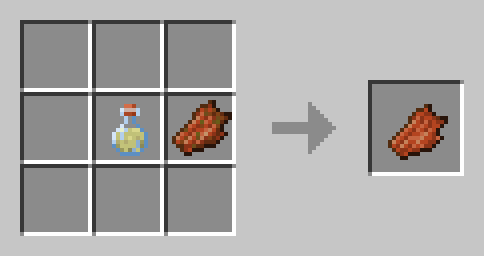
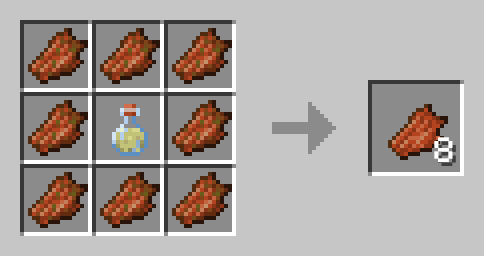
chore: update recipe & recipe card

diff --git a/src/main/java/net/sneezewipe/steelwitchesplus/datagen/ModRecipeProvider.java b/src/main/java/net/sneezewipe/steelwitchesplus/datagen/ModRecipeProvider.java
@@ -248,8 +248,8 @@ public class ModRecipeProvider extends FabricRecipeProvider {
             }
 
             private void generateRecipeCleanedFlesh(RecipeExporter exporter) {
-                createShapeless(RecipeCategory.MISC, ModItems.CLEANED_FLESH, 1)
-                        .input(Items.ROTTEN_FLESH).input(ModItems.DISINFECTANT)
+                createShapeless(RecipeCategory.MISC, ModItems.CLEANED_FLESH, 8)
+                        .input(Items.ROTTEN_FLESH, 8).input(ModItems.DISINFECTANT)
                         .criterion(hasItem(Items.ROTTEN_FLESH), conditionsFromItem(Items.ROTTEN_FLESH))
                         .criterion(hasItem(ModItems.DISINFECTANT), conditionsFromItem(ModItems.DISINFECTANT))
                         .offerTo(exporter, RegistryKey.of(RegistryKeys.RECIPE, Identifier.of(getRecipeName(ModItems.CLEANED_FLESH))));
